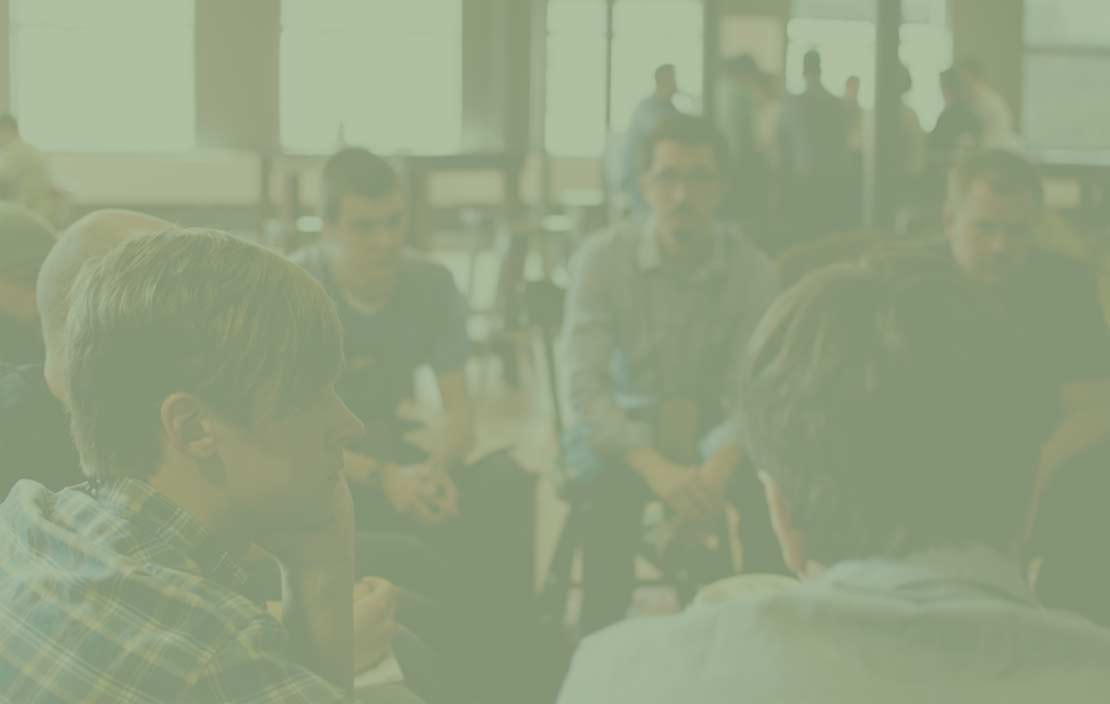
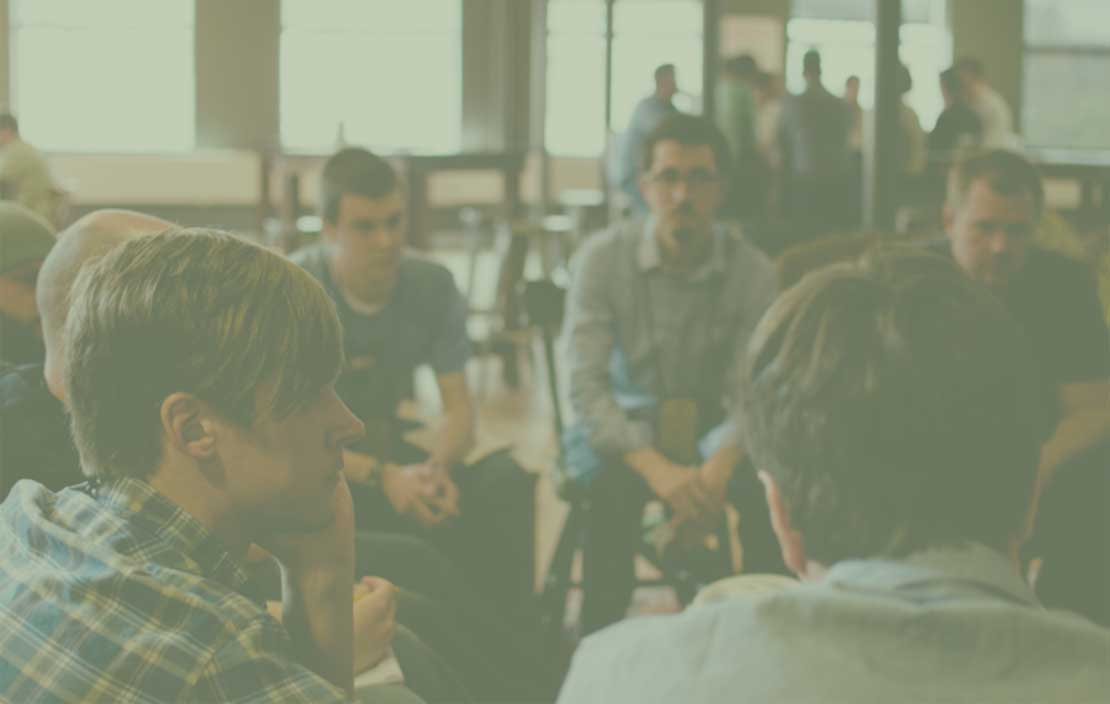
Update header image

diff --git a/css/style.css b/css/style.css
@@ -353,7 +353,7 @@ section {
   h3 {
     page-break-after: avoid; } }
 header {
-  background-image: url("../images/grok2.jpg");
+  background-image: url("../images/grokHead.jpg");
   background-size: cover;
   background-position: center;
   text-align: center;
@@ -363,7 +363,7 @@ header {
     header {
       text-align: left; } }
   header .overlay {
-    background-color: rgba(158, 177, 140, 0.75);
+    background-color: rgba(158, 177, 140, 0.35);
     padding-bottom: 22px; }
   header nav {
     background-color: rgba(158, 177, 140, 0.95);

diff --git a/scss/_header.scss b/scss/_header.scss
@@ -1,5 +1,5 @@
 header {
-	background-image: url("../images/grok2.jpg");
+	background-image: url("../images/grokHead.jpg");
 	background-size: cover;
 	background-position: center;
 	text-align: center;
@@ -12,7 +12,7 @@ header {
 
 
 	.overlay{
-		background-color: rgba(158,177,140,.75);
+		background-color: rgba(158,177,140,.35);
 		padding-bottom: 22px;
 	}
 	nav {
